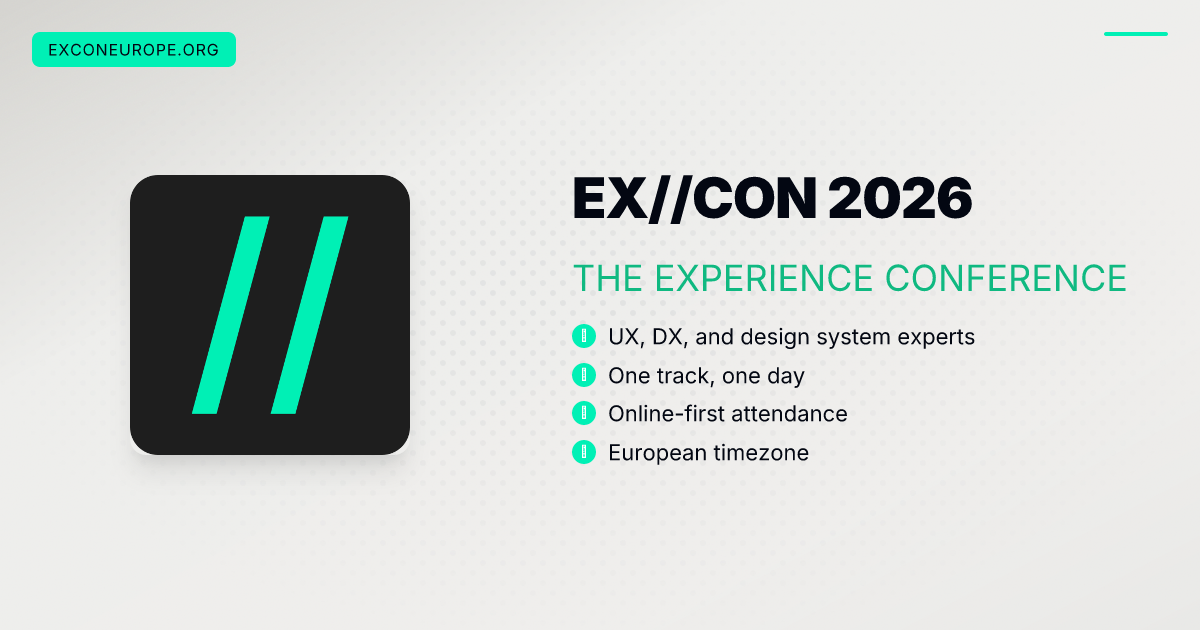
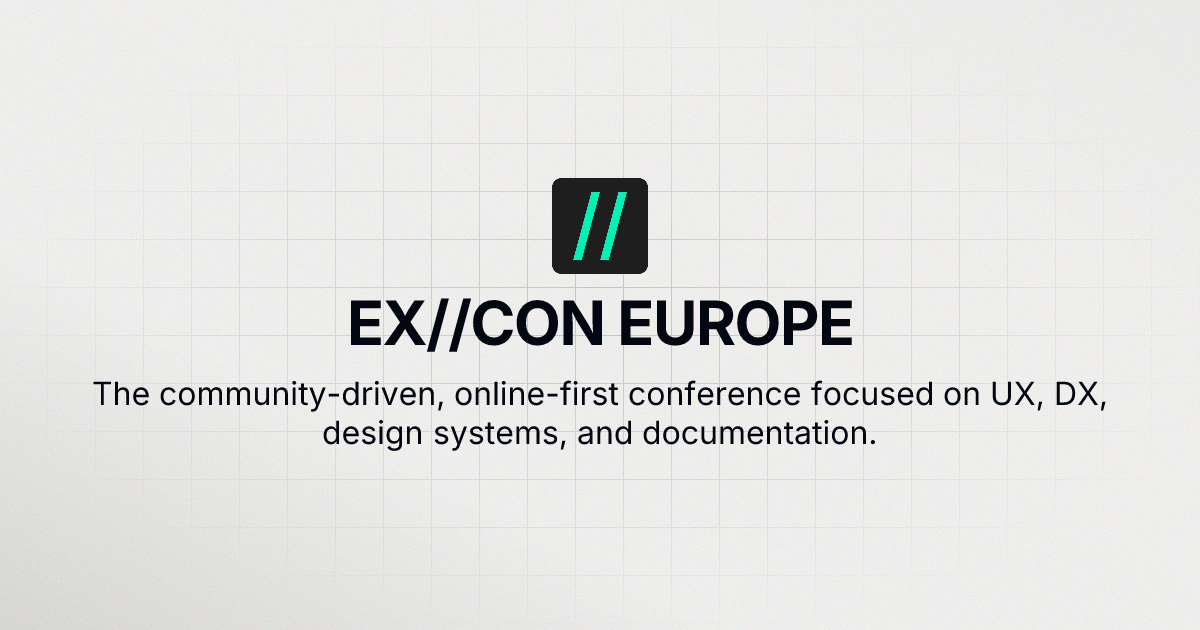
og image and meta update

diff --git a/index.html b/index.html
@@ -5,13 +5,12 @@
     <meta name="viewport" content="width=device-width, initial-scale=1.0" />
     <meta
       name="description"
-      content="EX//CON 2026 is a community-driven, online-first conference focused on UX, DX, design systems, and components. Join top experts, curated talks, and a virtual afterparty in a European timezone."
+      content="EX//CON is a community-driven, online-first conference focused on UX, DX, design systems, and components. Join top experts, curated talks, and a virtual afterparty in a European timezone."
     />
     <meta
       name="keywords"
       content="UX, DX, Design Systems, Components, Conference"
     />
-    <meta name="author" content="EX//CON Team" />
     <title>EX//CON – The Experience Conference</title>
     <link rel="preconnect" href="https://fonts.googleapis.com" />
     <link
